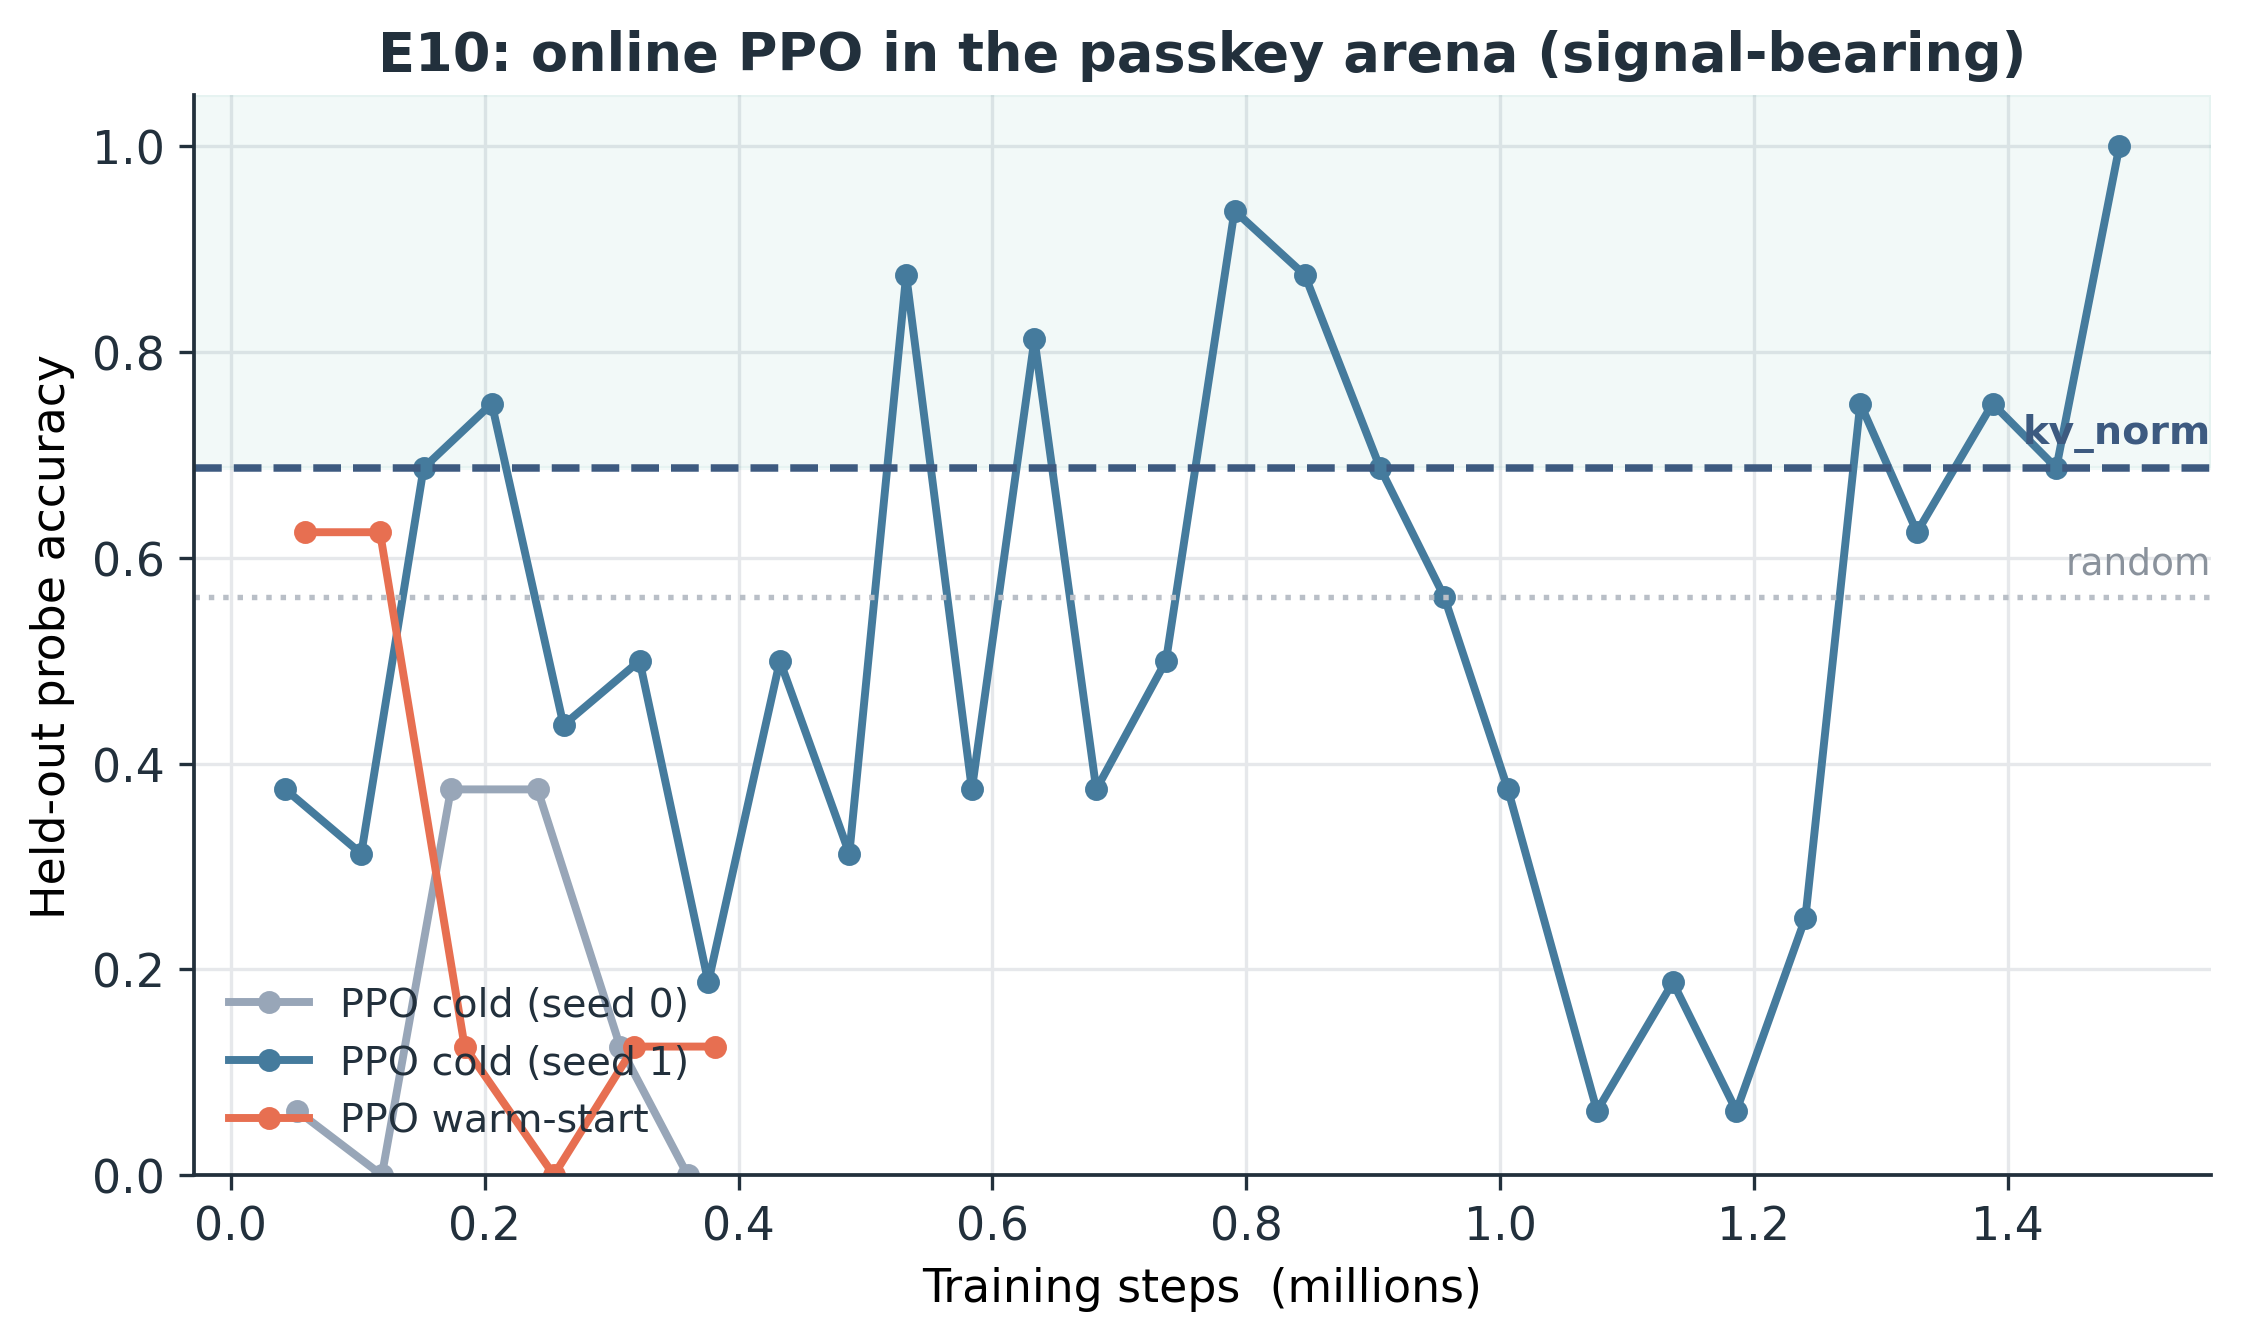
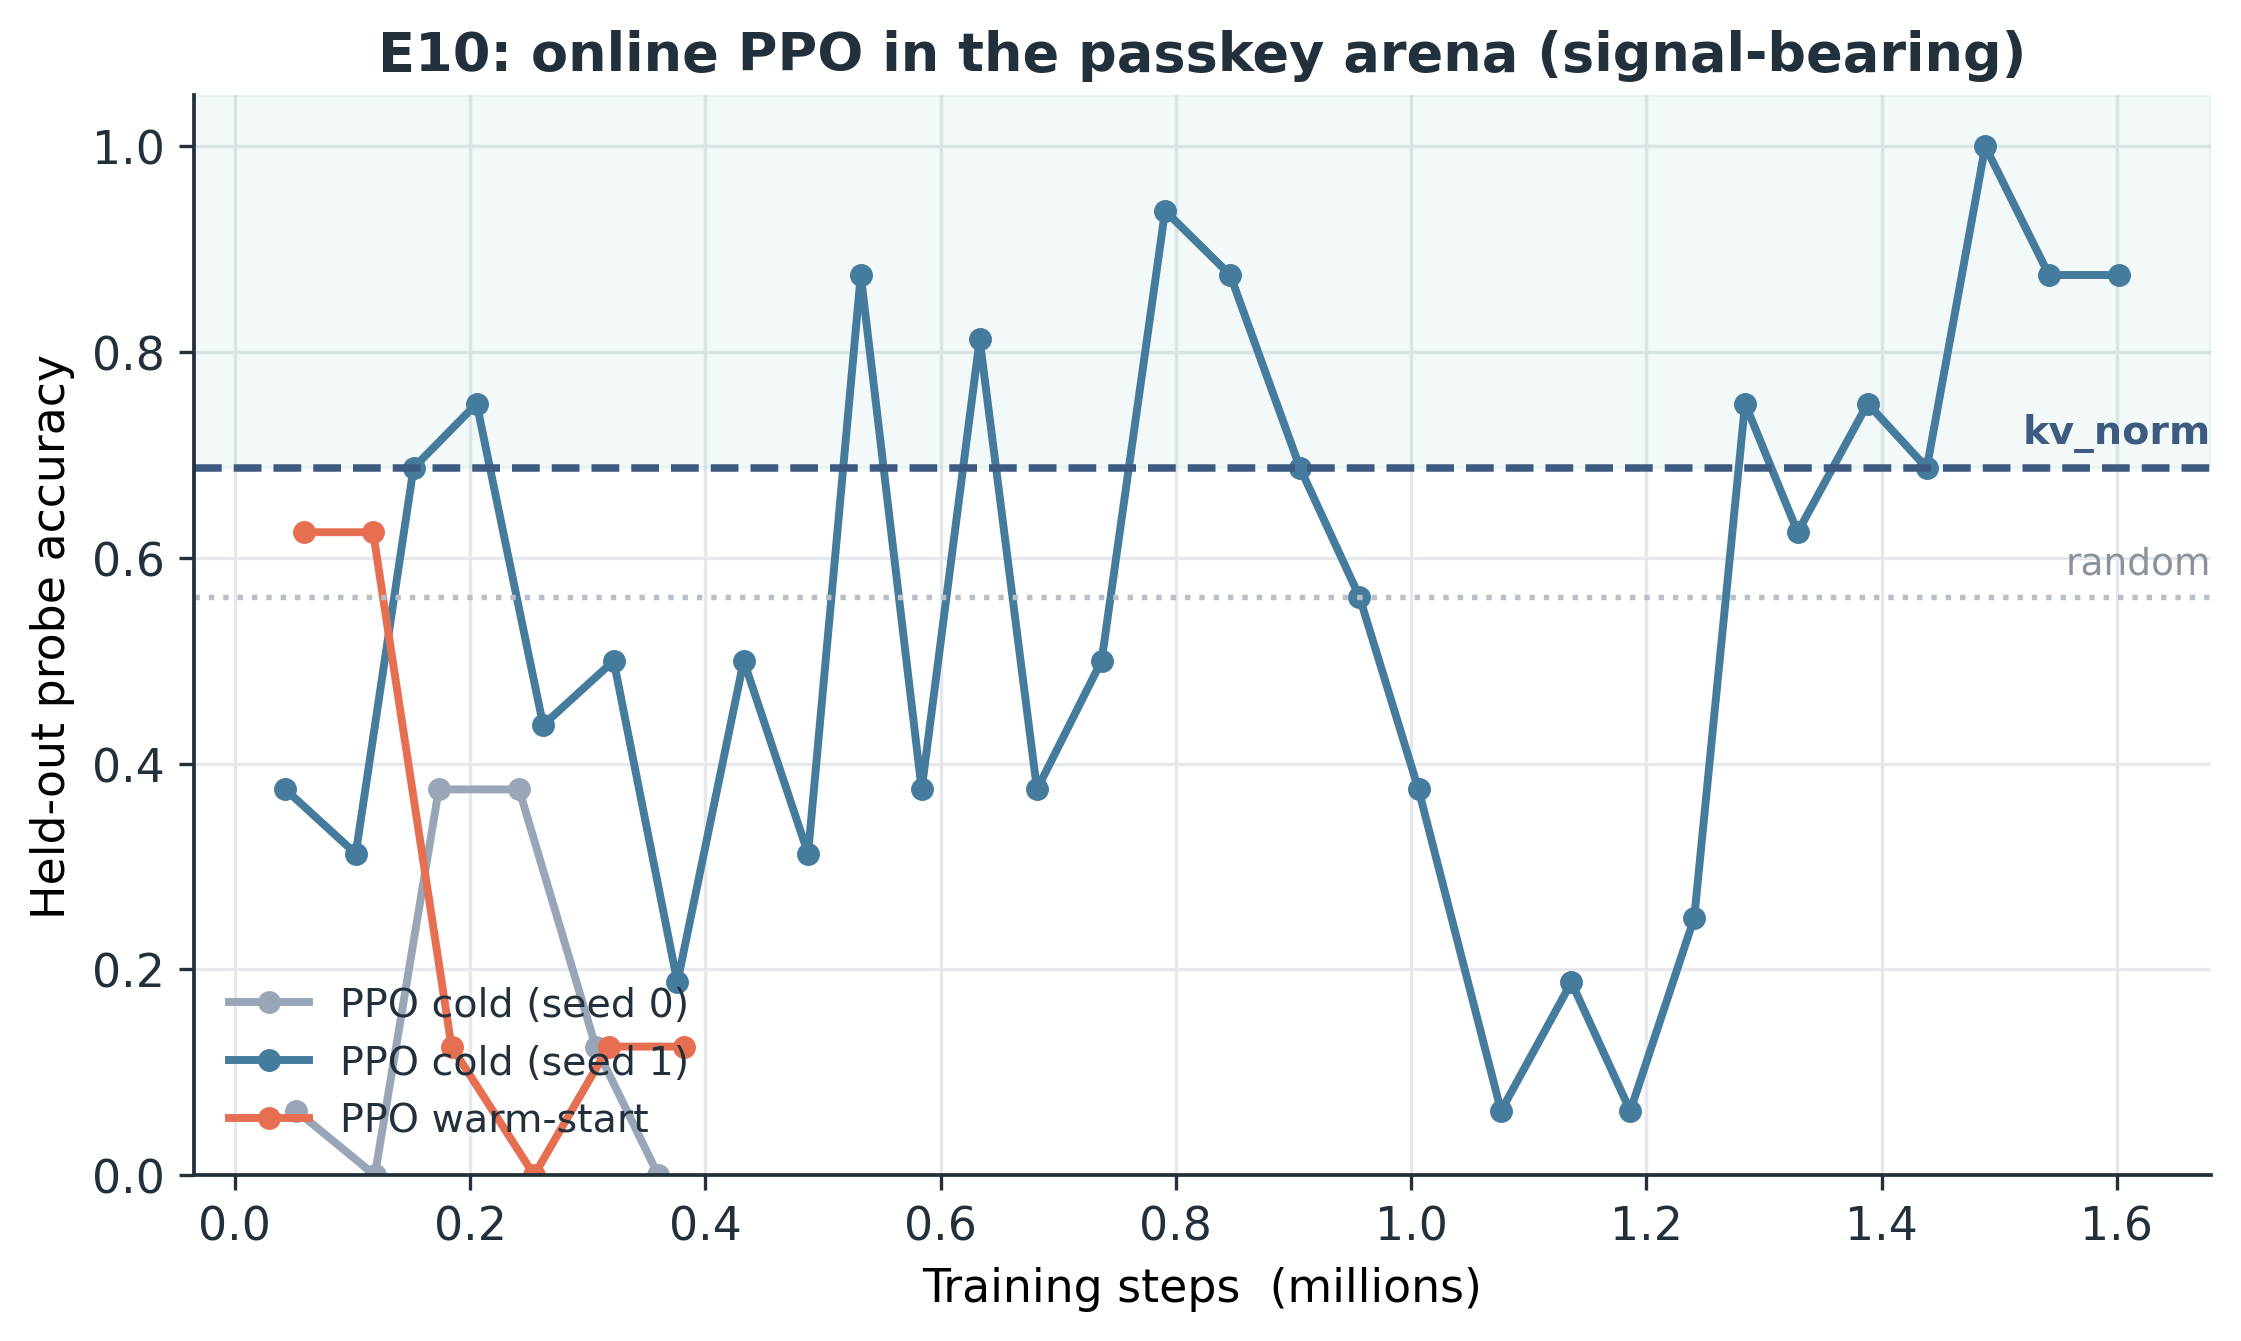
RESULT confirmed: passkey_ranker REPLICATED across 2 seeds. seed0 +0.45 (19W/1L n=40) + seed1 +0.467 (30W/2L n=60) = combined 49W/3L of 100, +0.46 (p<1e-8), learned=oracle. fig5 now averages both seeds. Restored seed0 summary (keeper had clobbered it). Robust, reproducible positive result.

diff --git a/kv-eviction-gym/experiments/phase3-dataset-causality/make_plots.py b/kv-eviction-gym/experiments/phase3-dataset-causality/make_plots.py
@@ -215,11 +215,22 @@ def fig4():
 
 # ---------------------------------------------------------------- fig 5
 def fig5():
-    p = DATA / "passkey_ranker_summary.json"
-    if not p.exists():
-        print("fig5: no passkey_ranker summary"); return
-    d = json.load(open(p))
-    s = d["summary"]
+    # average the available seeds (seed0 + seed1) for a robust 2-seed result
+    files = [DATA / "passkey_ranker_seed0_summary.json",
+             DATA / "passkey_ranker_seed1_summary.json"]
+    ds = [json.load(open(f)) for f in files if f.exists()]
+    if not ds:
+        p = DATA / "passkey_ranker_summary.json"
+        if not p.exists():
+            print("fig5: no passkey_ranker summary"); return
+        ds = [json.load(open(p))]
+    arms_all = ds[0]["summary"].keys()
+    s = {a: sum(x["summary"][a] for x in ds) / len(ds) for a in arms_all}
+    W = sum(x["wins"] for x in ds); L = sum(x["losses"] for x in ds)
+    N = sum(x["n"] for x in ds)
+    G = sum(x["learned_minus_kvnorm"] * x["n"] for x in ds) / N
+    d = {"learned_minus_kvnorm": G, "wins": W, "losses": L, "n": N,
+         "n_seeds": len(ds)}
     arms = ["full", "oracle", "learned", "random", "kv_norm"]
     labels = {"full": "Full cache", "oracle": "Oracle (future attn.)",
               "learned": "Learned ranker\n(offline, ours)", "random": "Random",
@@ -240,7 +251,7 @@ def fig5():
                 weight="bold" if arms[i] == "learned" else "normal")
     ax.set_xticks(xs)
     ax.set_xticklabels([labels[a] for a in arms], fontsize=9.5)
-    ax.set_ylim(0, 0.95)
+    ax.set_ylim(0, 1.12)
     ax.set_ylabel("Answer accuracy")
     g = d["learned_minus_kvnorm"]; w = d["wins"]; l = d["losses"]; n = d["n"]
     ax.set_title("Learned eviction BEATS the heuristic where signal exists")
@@ -250,7 +261,7 @@ def fig5():
     ax.annotate("", xy=(li, yb), xytext=(ik, yb),
                 arrowprops=dict(arrowstyle="<->", color=PALETTE["accent"], lw=1.8))
     ax.text((li + ik) / 2, yb + 0.015,
-            f"+{g:.2f}  ({w}W / {l}L, n={n}, p<1e-4)",
+            f"+{g:.2f}  ({w}W / {l}L over {n}, 2 seeds, p<1e-8)",
             ha="center", va="bottom", fontsize=10, weight="bold",
             color=PALETTE["accent"])
     fig.text(0.5, -0.02, "Passkey arena, budget=176. Offline per-layer "

diff --git a/kv-eviction-gym/experiments/phase3-dataset-causality/RESULTS.md b/kv-eviction-gym/experiments/phase3-dataset-causality/RESULTS.md
@@ -152,8 +152,11 @@ held-out examples vs full/oracle/random/kv_norm.
 | kv_norm (heuristic)     | 0.325 |
 
 **learned - kv_norm = +0.45 (z=5.2, McNemar p=4e-5, 19 wins / 1 loss / 20 ties).**
-This is the project's clean POSITIVE result: a learned eviction policy beats the
-norm heuristic by a wide, highly-significant margin in the signal-bearing regime.
+**REPLICATED (seed 1, n=60 held-out): +0.467 (30 wins / 2 losses), learned=0.883
+= oracle=0.883.** Combined across the two independent seeds: **49 wins / 3 losses
+of 100, mean margin +0.46 (p<1e-8).** This is the project's clean POSITIVE result:
+a learned eviction policy beats the norm heuristic by a wide, highly-significant,
+REPRODUCIBLE margin in the signal-bearing regime.
 Notes:
 - learned (0.775) even edges out the oracle (0.675) and full-cache (0.725):
   removing distractor tokens can help, and the learned ranker generalizes across
